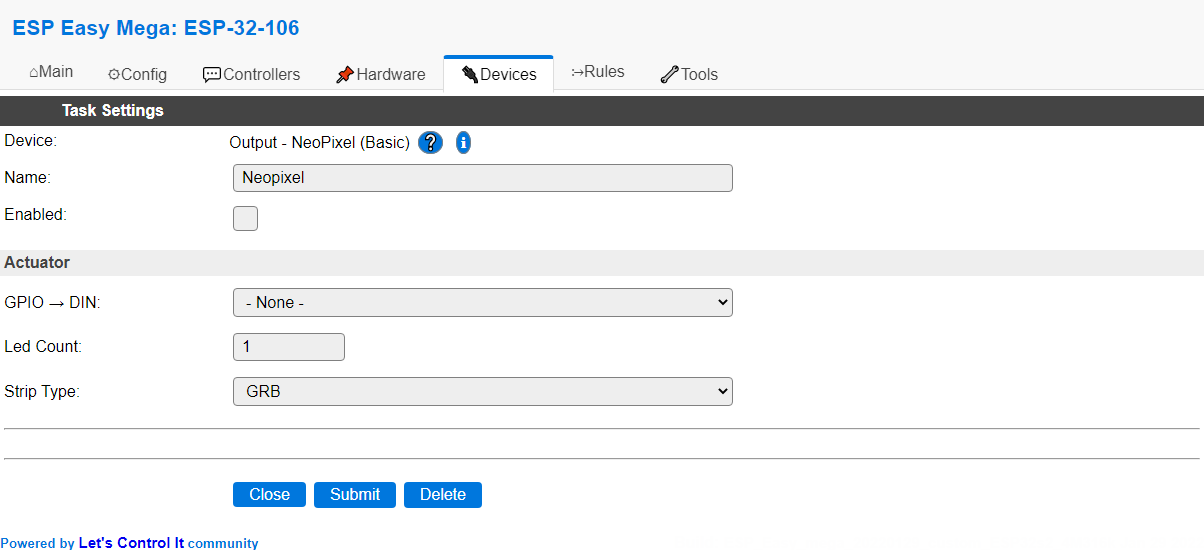
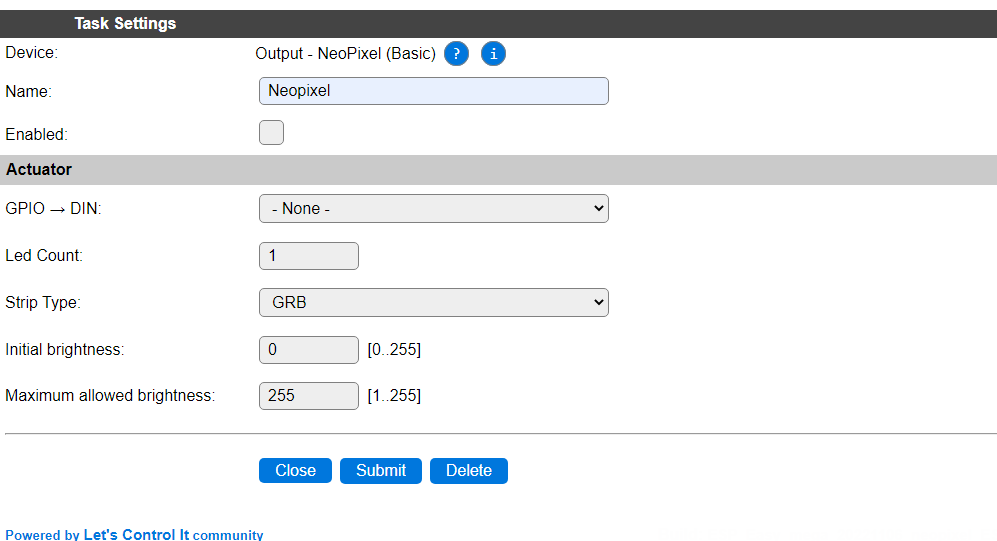
[P038] Add initial and max brightness settings and command, update docs, optimizations

diff --git a/src/src/PluginStructs/P038_data_struct.cpp b/src/src/PluginStructs/P038_data_struct.cpp
@@ -5,8 +5,12 @@
 // **************************************************************************/
 // Constructor
 // **************************************************************************/
-P038_data_struct::P038_data_struct(int8_t gpioPin, uint16_t ledCount, uint8_t stripType)
-  : _gpioPin(gpioPin), _maxPixels(ledCount), _stripType(stripType) {}
+P038_data_struct::P038_data_struct(int8_t   gpioPin,
+                                   uint16_t ledCount,
+                                   uint8_t  stripType,
+                                   uint8_t  brightness,
+                                   uint8_t  maxbright)
+  : _gpioPin(gpioPin), _maxPixels(ledCount), _stripType(stripType), _brightness(brightness), _maxbright(maxbright) {}
 
 // **************************************************************************/
 // Destructor
@@ -27,7 +31,8 @@ bool P038_data_struct::plugin_init(struct EventStruct *event) {
                                                              (_stripType == P038_STRIP_TYPE_RGBW ? NEO_GRBW : NEO_GRB) + NEO_KHZ800);
 
     if (Plugin_038_pixels != nullptr) {
-      Plugin_038_pixels->begin(); // This initializes the NeoPixel library.
+      Plugin_038_pixels->begin();                                          // This initializes the NeoPixel library.
+      Plugin_038_pixels->setBrightness(std::min(_maxbright, _brightness)); // Set brightness, so we don't get blinded by the light
       success = true;
     }
   }
@@ -48,6 +53,7 @@ bool P038_data_struct::plugin_write(struct EventStruct *event, const String& str
 
   if (isInitialized()) {
     const String cmd = parseString(string, 1);
+
     if (!cmd.startsWith(F("neo"))) {
       return success;
     }
@@ -63,11 +69,19 @@ bool P038_data_struct::plugin_write(struct EventStruct *event, const String& str
       }
     }
 
+    success = true;
+
     if (cmd.equals(F("neopixel"))) { // NeoPixel
       Plugin_038_pixels->setPixelColor(event->Par1 - 1, Plugin_038_pixels->Color(event->Par2, event->Par3, event->Par4, event->Par5));
-      Plugin_038_pixels->show();     // This sends the updated pixel color to the hardware.
-      success = true;
-    }
+    } else
+
+    if (cmd.equals(F("neopixelbright")) && (event->Par1 >= 0) && (event->Par1 <= 255)) {
+      if (parseString(string, 2).isEmpty() || (event->Par1 == 0)) {          // No argument or 0, then
+        Plugin_038_pixels->setBrightness(std::min(_maxbright, _brightness)); // use initial brightness
+      } else {
+        Plugin_038_pixels->setBrightness(std::min(_maxbright, static_cast<uint8_t>(event->Par1)));
+      }
+    } else
 
     // extra function to receive HSV values (i.e. homie controler)
     if (cmd.equals(F("neopixelhsv"))) { // NeoPixelHSV
@@ -77,17 +91,13 @@ bool P038_data_struct::plugin_write(struct EventStruct *event, const String& str
       HSV2RGBWorRGBandLog(event->Par2, event->Par3, event->Par4, rgbw);
 
       Plugin_038_pixels->setPixelColor(event->Par1 - 1, Plugin_038_pixels->Color(rgbw[0], rgbw[1], rgbw[2], rgbw[3]));
-      Plugin_038_pixels->show(); // This sends the updated pixel color to the hardware.
-      success = true;
-    }
+    } else
 
     if (cmd.equals(F("neopixelall"))) { // NeoPixelAll
       for (int i = 0; i < _maxPixels; i++) {
         Plugin_038_pixels->setPixelColor(i, Plugin_038_pixels->Color(event->Par1, event->Par2, event->Par3, event->Par4));
       }
-      Plugin_038_pixels->show();
-      success = true;
-    }
+    } else
 
     if (cmd.equals(F("neopixelallhsv"))) { // NeoPixelAllHSV
       int rgbw[4];
@@ -98,9 +108,7 @@ bool P038_data_struct::plugin_write(struct EventStruct *event, const String& str
       for (int i = 0; i < _maxPixels; i++) {
         Plugin_038_pixels->setPixelColor(i, Plugin_038_pixels->Color(rgbw[0], rgbw[1], rgbw[2], rgbw[3]));
       }
-      Plugin_038_pixels->show();
-      success = true;
-    }
+    } else
 
     if (cmd.equals(F("neopixelline"))) {                      // NeoPixelLine
       int brightness = 0;
@@ -109,9 +117,7 @@ bool P038_data_struct::plugin_write(struct EventStruct *event, const String& str
       for (int i = event->Par1 - 1; i < event->Par2; i++) {
         Plugin_038_pixels->setPixelColor(i, Plugin_038_pixels->Color(event->Par3, event->Par4, event->Par5, brightness));
       }
-      Plugin_038_pixels->show();
-      success = true;
-    }
+    } else
 
     if (cmd.equals(F("neopixellinehsv"))) { // NeoPixelLineHSV
       int rgbw[4];
@@ -122,8 +128,12 @@ bool P038_data_struct::plugin_write(struct EventStruct *event, const String& str
       for (int i = event->Par1 - 1; i < event->Par2; i++) {
         Plugin_038_pixels->setPixelColor(i, Plugin_038_pixels->Color(rgbw[0], rgbw[1], rgbw[2], rgbw[3]));
       }
-      Plugin_038_pixels->show();
-      success = true;
+    } else {
+      success = false;
+    }
+
+    if (success) {
+      Plugin_038_pixels->show(); // This sends the updated pixel color to the hardware.
     }
   }
   return success;

diff --git a/src/src/PluginStructs/P038_data_struct.h b/src/src/PluginStructs/P038_data_struct.h
@@ -8,8 +8,10 @@
 
 // # define P038_DEBUG_LOG // Enable for some (extra) logging
 
-# define P038_CONFIG_LEDCOUNT  PCONFIG(0)
-# define P038_CONFIG_STRIPTYPE PCONFIG(1)
+# define P038_CONFIG_LEDCOUNT   PCONFIG(0)
+# define P038_CONFIG_STRIPTYPE  PCONFIG(1)
+# define P038_CONFIG_BRIGHTNESS PCONFIG(2)
+# define P038_CONFIG_MAXBRIGHT  PCONFIG(3)
 
 # define P038_STRIP_TYPE_RGB   1
 # define P038_STRIP_TYPE_RGBW  2
@@ -19,7 +21,9 @@ public:
 
   P038_data_struct(int8_t   gpioPin,
                    uint16_t ledCount,
-                   uint8_t  stripType);
+                   uint8_t  stripType,
+                   uint8_t  brightness,
+                   uint8_t  maxbright);
 
   P038_data_struct() = delete;
   ~P038_data_struct();
@@ -45,6 +49,8 @@ private:
   int8_t   _gpioPin;
   uint16_t _maxPixels;
   uint8_t  _stripType;
+  uint8_t  _brightness;
+  uint8_t  _maxbright;
 };
 #endif // ifdef USES_P038
 #endif // ifndef PLUGINSTRUCTS_P038_DATA_STRUCT_H

diff --git a/docs/source/Plugin/P038.rst b/docs/source/Plugin/P038.rst
@@ -55,6 +55,10 @@ Actuator
 
 * **Strip Type**: Select the type of the LEDs mounted on the strip:
 
+* **Initial brightness**: The brightness that the stripe is initially set to. Default is 0, the max. available brightness, and default before this setting was introduced. Range: 0..255.
+
+* **Maximum allowed brightness**: The brightness that is the maximum it can be set to, either from UI or via the ``NeoPixelBright`` command, to optionally help protect both the eyes and the power-supply powering the stripe. Default is 255. Range: 1..255.
+
 .. image:: P038_StripTypeOptions.png
   :alt: The Strip type options
 
